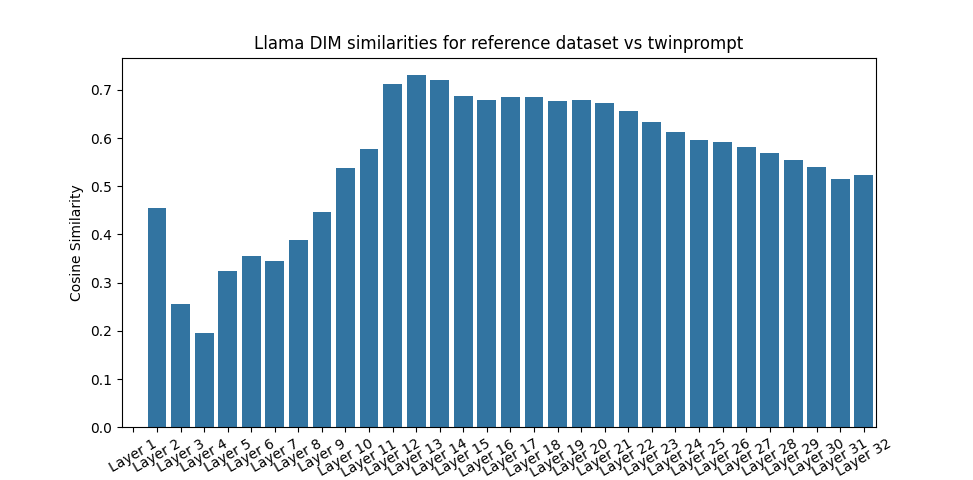
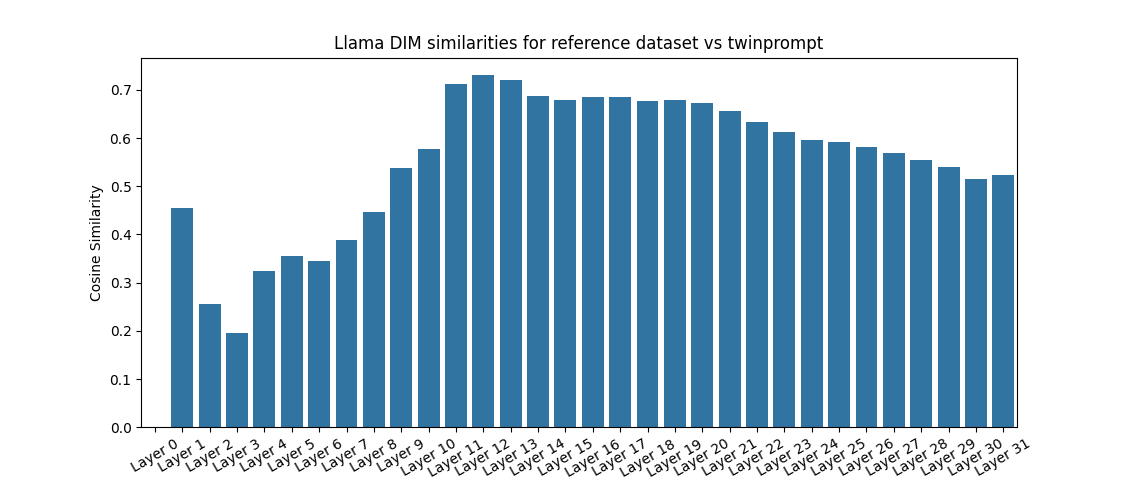
Merge pull request #56 from evan203/calvin/graph
Add discussion/conclusion + update my graph

Pull request: Add discussion/conclusion + update my graph
#42 

Added some prose for my self-consistency check too. We can move it wherever. Fine with cutting this down if we don't have space

diff --git a/code/analysis/dim_self_consistency_graph.py b/code/analysis/dim_self_consistency_graph.py
@@ -1,0 +1,47 @@
+import matplotlib.pyplot as plt
+import seaborn as sns
+import torch
+
+# gemma
+# df = [0.0000, 0.0169, 0.2496, 0.1817, 0.3434, 0.3361, 0.4360, 0.6132, 0.6126, 0.6201, 0.7386, 0.7186, 0.6955, 0.6728, 0.6680, 0.6482, 0.6515, 0.6340]
+# llama
+df = [
+    0.0000,
+    0.4551,
+    0.2564,
+    0.1958,
+    0.3240,
+    0.3545,
+    0.3442,
+    0.3892,
+    0.4471,
+    0.5384,
+    0.5770,
+    0.7126,
+    0.7303,
+    0.7196,
+    0.6878,
+    0.6792,
+    0.6852,
+    0.6852,
+    0.6765,
+    0.6797,
+    0.6721,
+    0.6554,
+    0.6326,
+    0.6117,
+    0.5967,
+    0.5918,
+    0.5803,
+    0.5694,
+    0.5545,
+    0.5405,
+    0.5140,
+    0.5240,
+]
+
+g = sns.barplot(x=[f"Layer {i}" for i in range(len(df))], y=df)
+g.set_title("Llama DIM similarities for reference dataset vs twinprompt")
+g.set_ylabel("Cosine Similarity")
+plt.xticks(rotation=30)
+plt.show()